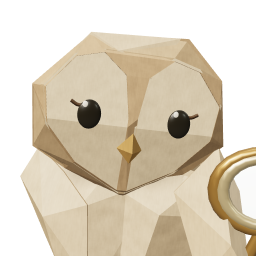
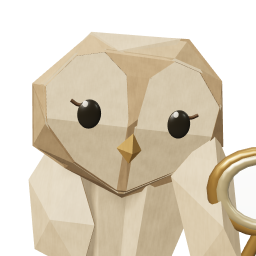
Shape Echo torso as continuous folded paper sheets

diff --git a/src/scene/proxies.ts b/src/scene/proxies.ts
@@ -378,23 +378,23 @@ export function makeProxy(character: Character, kit: SceneKit): THREE.Group {
     warmth.name='Lantern surface warmth';warmth.position.set(0,support?0:.10,support?.20:.03);
     head.add(warmth);data.warmth=warmth;
   } else if (kind === 'owl') {
-    const navy = id === 'email-owl', feathers = navy ? '#233149' : id === 'reflection-quill' ? '#c5a67d' : '#d7bb8d';
+    const navy = id === 'email-owl', echo=id==='reflection-echo', feathers = navy ? '#233149' : id === 'reflection-quill' ? '#c5a67d' : '#d7bb8d';
     body.position.y = navy?.49:.41; data.bodyY = body.position.y; head.position.y = navy?.91:.81; data.headY = head.position.y;
     // The facial shield overlaps the breast, like the original owl. Keeping
     // both volumes on one vertical axis lets the chest cut its heart-shaped
     // chin into a straight horizontal edge.
     head.position.z=navy?.13:.025;
-    sculpt(body, navy ? 'owlBody' : 'paperBody', navy?feathers:'#ffffff', [0, 0, 0], [.70, navy?.83:.70, navy?.55:.70], undefined, navy ? 'feather' : 'paper');
+    sculpt(body, navy ? 'owlBody' : 'paperBody', navy?feathers:'#ffffff', [0, 0, echo?-.055:0], echo?[.49,.74,.70]:[.70, navy?.83:.70, navy?.55:.70], undefined, navy ? 'feather' : 'paper');
     const headShell=sculpt(head, navy ? 'owlHead' : id==='reflection-echo'?'paperEchoHead':'paperQuillHead', navy ? feathers : '#ffffff', [0, 0, 0], [.78, .65, navy?.54:.42], undefined, navy ? 'feather' : 'paper');
     if(!navy){
       sculpt(head,id==='reflection-echo'?'paperEchoHood':'paperQuillHood','#ffffff',[0,0,0],[.78,.65,.42],undefined,'paper');
-      sculpt(body,'paperChestL','#ffffff',[0,0,0],[.70,.70,.62],undefined,'paper');
+      sculpt(body,echo?'paperEchoChestL':'paperChestL','#ffffff',[0,0,0],echo?[.63,.78,.62]:[.70,.70,.62],undefined,'paper');
       // The mirrored chest sheets overlap at their centre seam. Give the
       // under-fold its own depth instead of letting both faces coincide;
       // the upper sheet now exposes a thin edge and a local overlap shadow.
-      sculpt(body,'paperChestR','#ffffff',[0,0,-.010],[.70,.70,.62],undefined,'paper');
-      sculpt(body,'paperBackL','#ffffff',[0,0,0],[.70,.70,.36],undefined,'paper');
-      sculpt(body,'paperBackR','#ffffff',[0,-.018,-.004],[.70,.66,.36],[0,0,-.065],'paper');
+      sculpt(body,echo?'paperEchoChestR':'paperChestR','#ffffff',[0,0,-.010],echo?[.63,.78,.62]:[.70,.70,.62],undefined,'paper');
+      sculpt(body,'paperBackL','#ffffff',[0,0,0],echo?[.56,.74,.36]:[.70,.70,.36],undefined,'paper');
+      sculpt(body,'paperBackR','#ffffff',[0,-.018,-.004],echo?[.56,.70,.36]:[.70,.66,.36],[0,0,-.065],'paper');
       for(const [index,form] of ['paperCrownBackL','paperCrownBackR'].entries()){
         const returnSheet=sculpt(head,form as CharacterForm,'#ffffff',[0,index?-.008:0,index?-.002:0],[.78,.65,.42],undefined,'paper');
         fitCharacterRelief(returnSheet,headShell,.003,Infinity,-1);
@@ -414,11 +414,11 @@ export function makeProxy(character: Character, kit: SceneKit): THREE.Group {
       }
       if(id==='reflection-echo')stroke(head,'#56402a',[[sign*.180+.006,.039,.184],[sign*.205+.006,.038,.182],[sign*.230+.006,.050,.181]],.006,'ink');
       if (navy) sculpt(head, sign < 0 ? 'owlBrowL' : 'owlBrowR', '#26394f', [sign * (sign<0?.115:.135), .255, .030], sign<0?[1.02,1.10,1.30]:[1.06,.95,1.40], [0,0,sign<0?-.15:-.08], 'feather');
-      const wing = joint(body, sign < 0 ? 'wing_l' : 'wing_r', [sign * (navy?.300:.315), .12, navy?.110:-.025]);
+      const wing = joint(body, sign < 0 ? 'wing_l' : 'wing_r', [sign * (navy?.300:echo&&sign<0?.245:.315), .12, navy?.110:-.025]);
       if(navy)wing.scale.x=1.10;
       if(navy) sculpt(wing,'featherCore','#283b54',[sign*.015,-.10,0],[.19,.54,.245],[0,0,sign*.23],'feather');
       else if(sign>0)sculpt(wing,'paperHoldingWing','#ffffff',[0,0,0],[1,1,id==='reflection-quill'?.52:1],undefined,'paper');
-      else sculpt(wing,'paperOwlWingL','#ffffff',[0,0,0],[1,1,1],undefined,'paper');
+      else sculpt(wing,echo?'paperEchoRestWing':'paperOwlWingL','#ffffff',[0,0,0],[1,1,1],undefined,'paper');
       if (navy) {
         sculpt(wing, sign < 0 ? 'featherFanL' : 'featherFanR', '#283b54', [0, -.035, 0], [1, 1, 1], undefined, 'plumage');
         sculpt(wing, sign < 0 ? 'featherFanR' : 'featherFanL', '#283b54', [0, -.035, -.024], [1, 1, 1], [0,Math.PI,0], 'plumage');
@@ -455,14 +455,15 @@ export function makeProxy(character: Character, kit: SceneKit): THREE.Group {
       }
     }
     else {
-      body.scale.set(1.06,.90,1.06);
+      body.scale.set(echo?1:1.06,echo?1:.90,1.06);
       // A fuller paper breast must not enlarge the held lens/pencil or their
       // certified swept radius. Keep those props in their original frame.
-      const propFrame=new THREE.Vector3(1,.86/.90,.85/1.06);
+      const propFrame=new THREE.Vector3(echo?1.06:1,.86/(echo?1:.90),.85/1.06);
       for(const part of body.children)if(!part.name.startsWith('paper')&&!part.name.startsWith('wing_')){
         part.position.multiply(propFrame);part.scale.multiply(propFrame);
+        if(echo)part.position.y-=.045;
       }
-      body.position.y-=.025;data.bodyY=body.position.y;
+      body.position.y+=echo?.020:-.025;data.bodyY=body.position.y;
       body.rotation.z=id==='reflection-echo'?-.055:.06;
       // A complete folded volume must still read from a side-on office window.
       // Front-only silhouettes are not a substitute for an embodied model.

diff --git a/src/scene/characterGeometry.ts b/src/scene/characterGeometry.ts
@@ -6,7 +6,7 @@ export type CharacterForm = 'torso' | 'scoutBody' | 'helmet' | 'bridgeHelmet' | 
   | 'lanternGlass' | 'lanternCap' | 'lanternBase' | 'lanternHandle' | 'sphere' | 'bean' | 'fittedSole' | 'detail' | 'opticDome' | 'limb' | 'ankle' | 'beak' | 'owlBeak' | 'ring' | 'heart' | 'neckBand'
   | 'book' | 'keeperPages' | 'bowedCover' | 'keeperCover' | 'keeperFrontCover' | 'keeperTurnedCorner' | 'envelope' | 'cloak' | 'cape' | 'capeCollar' | 'capePanel' | 'feather' | 'featherCore' | 'toe' | 'paperBody' | 'paperChestL' | 'paperChestR' | 'paperBackL' | 'paperBackR' | 'paperBrow' | 'paperEarL' | 'paperEarR' | 'paperEchoHead' | 'paperQuillHead' | 'paperWing' | 'paperTail' | 'paperDisc' | 'paperDiscL' | 'pageFold' | 'hoodTip' | 'hoodInset' | 'routeInlay' | 'scroll'
   | 'spiritBody' | 'spiritHood' | 'spiritRelayHood' | 'merchantTorso' | 'swiftBody' | 'swiftHead' | 'swiftTail' | 'swiftWingL' | 'swiftWingR' | 'paperOwlWingL' | 'paperOwlWingR' | 'paperHoldingWing' | 'paperCrownBackL' | 'paperCrownBackR' | 'wayfinderBody'
-  | 'owlBrowL' | 'owlBrowR' | 'featherFanL' | 'featherFanR' | 'breastFeathers' | 'hexGlass' | 'hexCap' | 'hexBase' | 'fineRing' | 'compassRim' | 'compassDial' | 'compassClasp' | 'compassStar' | 'compassNeedle' | 'compassPointer' | 'paperBeak' | 'pageCorner' | 'merchantBase' | 'spiritFigure' | 'spiritLens' | 'spiritRelay' | 'compassCowl' | 'lensCowl' | 'relayCowl' | 'paperEchoHood' | 'paperQuillHood';
+  | 'owlBrowL' | 'owlBrowR' | 'featherFanL' | 'featherFanR' | 'breastFeathers' | 'hexGlass' | 'hexCap' | 'hexBase' | 'fineRing' | 'compassRim' | 'compassDial' | 'compassClasp' | 'compassStar' | 'compassNeedle' | 'compassPointer' | 'paperBeak' | 'pageCorner' | 'merchantBase' | 'spiritFigure' | 'spiritLens' | 'spiritRelay' | 'compassCowl' | 'lensCowl' | 'relayCowl' | 'paperEchoHood' | 'paperQuillHood' | 'paperEchoChestL' | 'paperEchoChestR' | 'paperEchoRestWing';
 export type CharacterFinish = 'clay' | 'satinClay' | 'glaze' | 'satinShell' | 'ink' | 'visorGlass' | 'warmInk' | 'brass' | 'agedBrass' | 'amber' | 'lanternGlass' | 'paper' | 'feather' | 'facialFeather' | 'plumage' | 'cloth' | 'glass' | 'opticalGlass';
 type Tuple = [number, number, number];
 const torsoProfile: Array<[number, number]> = [[0, -.5], [.32, -.48], [.45, -.37], [.50, -.10], [.49, .16], [.43, .34], [.29, .45], [.14, .49], [0, .5]];
@@ -473,6 +473,22 @@ function paperOwlWing():THREE.BufferGeometry {
 /** Two mountain-fold vertices carry one long crease down the curved breast.
  * The boundary turns back at the flank and tapers over the feet; a single
  * high fan apex left a broad, straight apron instead of a folded volume. */
+function paperEchoChest():THREE.BufferGeometry {
+  // One uninterrupted mountain crease runs from shoulder to hem. Each side
+  // is a single plane clipped to the tapered outline, not an apex triangle
+  // fan. Its rear follows that same crease at the thickness of paper stock.
+  const ridgeX=(y:number)=>THREE.MathUtils.lerp(-.075,-.16,(y+.50)/.72);
+  const ridgeZ=(y:number)=>THREE.MathUtils.lerp(.24,.06,(y+.50)/.72);
+  const point=(x:number,y:number,slope:number):Tuple=>[x,y,ridgeZ(y)+slope*(x-ridgeX(y))];
+  const front:Tuple[]=[point(-.30,.22,.80),point(-.39,-.10,.80),point(-.20,-.50,.80),
+    point(-.075,-.50,0),point(.02,-.50,-.70),point(.02,.22,-.70),point(-.16,.22,0)];
+  const vertices:Tuple[]=[...front,...front.map(([x,y,z])=>[x,y,z-.008] as Tuple)];
+  const faces:number[][]=[[0,1,2,3,6],[6,3,4,5]];
+  faces.push(...faces.map(face=>face.map(i=>i+front.length).reverse()));
+  for(let i=0;i<front.length;i++){const j=(i+1)%front.length;faces.push([j,i,i+front.length,j+front.length]);}
+  return polyhedron(vertices,faces,faces.map((_,i)=>i<2?'#dfc7a2':i<4?'#d2b890':'#c1a277'),true);
+}
+
 function paperOwlChest():THREE.BufferGeometry {
   const outline:Tuple[]=[[-.012,.24,.035],[-.38,.14,.04],[-.42,-.08,.07],[-.33,-.34,.08],[-.205,-.50,.08],[.03,-.475,.155],[.025,-.20,.24],[.015,.04,.125]];
   const ridgeTop:Tuple=[-.18,-.045,.245],ridgeBottom:Tuple=[-.085,-.455,.245];
@@ -914,6 +930,10 @@ function makeGeometry(form: CharacterForm): THREE.BufferGeometry {
     // belly zigzag. The two thin sheets overlap above the closed inner body.
     case 'paperChestL': return paperOwlChest();
     case 'paperChestR': return reflect(paperOwlChest());
+    case 'paperEchoChestL': return paperEchoChest();
+    case 'paperEchoChestR': return reflect(paperEchoChest());
+    case 'paperEchoRestWing': return foldedSheet([[-.025,.02,.035],[-.095,-.13,.12],[-.025,-.34,.26],[.14,-.40,.27],[.175,-.24,.26],[.09,-.075,.15]],[.03,-.23,.285],
+      ['#dbc29a','#d8bf97','#d5b991','#cdb089','#dfc69f','#e5ceaa']);
     case 'paperBackR': return foldedSheet([[-.015,.34,.15],[-.36,.28,.11],[-.47,-.04,.09],[-.205,-.50,.14],[.065,-.32,.23]],[-.21,.015,.25],['#d0b28b','#dec39d','#c5a57c','#dbc09a','#e2c8a3']).rotateY(Math.PI);
     case 'paperBackL': return reflect(makeGeometry('paperBackR'));
     case 'paperEchoHood': return paperOwlHead(false,true);

diff --git a/docs/AVATAR-SURFACE-REVIEW.md b/docs/AVATAR-SURFACE-REVIEW.md
@@ -1820,3 +1820,32 @@ plates and Swift's smooth breast. The next bounded prototype reconstructs
 one Reflection owl torso/resting wing as coordinated descending sheets,
 preserving its head, expression, accessory and neutral state. Neither145
 nor that assessment establishes the requested A. Production remains143.
+
+Pass145 was pushed as17be38950bc7086c15f929c1445f6f3a95ed6ec1;
+remote readback matches and CI38618500578 succeeded.
+
+Pass146 prototypes only Echo. Its narrower, taller chest uses two continuous
+planes per half-sheet, .008-thick matching backs, an ordered central overlap
+and a tapered .010-thick resting wing. The existing head/expression remains;
+the magnifier keeps its size and approximately its preceding world placement.
+The first upper crease crossed the lower face; receding it into the shoulder
+corrected this before review. Quill is unchanged. All368 tests and build pass,
+including new sheet-plane/thickness checks, existing facial occlusion,
+all-character100x density and navigation/gesture bounds.
+
+The reviewer retains146 as a working baseline: Echo7.0 craft/6.5 fidelity,
+Reflection ensemble6.5/6.5. The torso is less squat and its descending folds
+are clearer, but the resting wing still reads as a separate shoulder mass
+and hanging flap; parallel chest panels slightly resemble a pleated robe.
+The side-on room view remains shallow/cutout-like. Without matched145 room
+images, this is a current limitation, not an established146 regression.
+The next correction is one oblique shoulder/wing sheet returning around the
+body depth, before propagation to Quill. No A or reference match is claimed.
+
+Evidence146 contains day/night portraits, quarter/rear, fixed-hour office
+windows and campus views. Campus submits55.70 fps, CPU mean/p95 1.75/2.80ms,
+135 draws/431,782 triangles. Reflection close submits58.51 fps,
+1.71/2.80ms,135 draws/874,855 triangles. Both have lower command-submission
+cost than145's campus samples but retain variable frame pacing; neither
+proves GPU completion or a locked60fps. No synthetic activity is used.
+Production remains143 pending a later accepted bundle.

diff --git a/design-qa.md b/design-qa.md
@@ -19,7 +19,15 @@ same model surfaces. Folded paper depth, feather winding, inset eye sockets,
 cape lining, Beacon's handle, rounded face aperture, foliage and wood finishes
 have been refined. No fake activity or observer authority was introduced.
 
-The pass-145 suite passes **367 tests** and the production build passes.
+The pass-146 suite passes **368 tests** and the production build passes.
+Echo's longer folded torso is retained at **7.0 craft / 6.5 fidelity**;
+the Reflection ensemble is **6.5 / 6.5**. The shoulder/wing relationship and
+shallow side profile still need work before the design extends to Quill.
+Campus/Reflection close samples submit55.70/58.51fps; CPU mean/p95 costs
+are1.75/2.80 and1.71/2.80ms. Frame-pacing variability is not hidden by these
+low submission costs. This checkpoint does not establish the requested A.
+
+The pass-145 suite passed **367 tests** and the production build passed.
 The reviewer retains two fuller Beacon plants at room **8.0 craft / 7.5
 fidelity**, campus **7.5 / 7.5**. A fresh character-only assessment is lower:
 ensemble about **7.0 craft / 6.5 fidelity**, with Reflection **6.5 / 6.0**.
